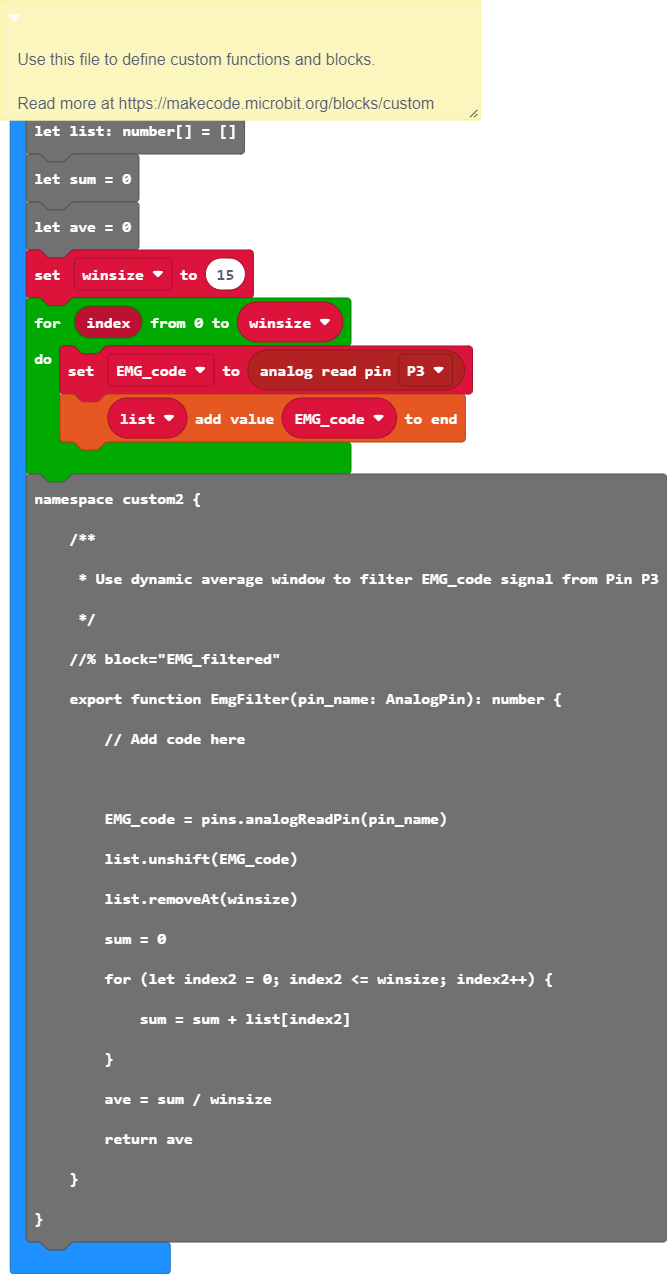
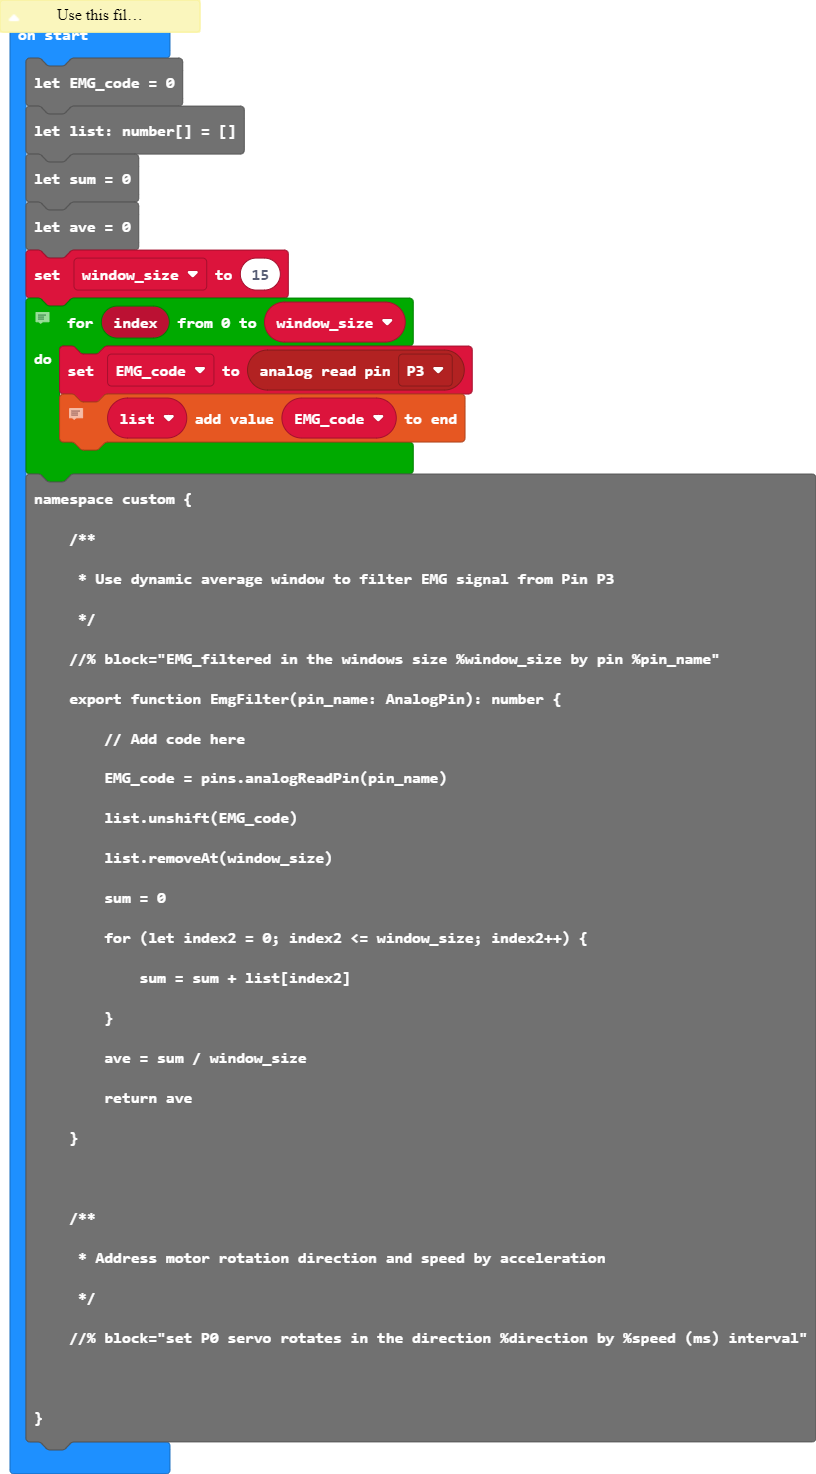
Update main.blocks, main.ts

diff --git a/main.ts b/main.ts
@@ -7,27 +7,28 @@ let EMG_code = 0
 let list: number[] = []
 let sum = 0
 let ave = 0
-let winsize = 15
-for (let index = 0; index <= winsize; index++) {
+let window_size = 15
+// Change the EMG name to EMG_code so student's variable will not have conflict
+for (let index = 0; index <= window_size; index++) {
     EMG_code = pins.analogReadPin(AnalogPin.P3)
+    // list.push(0)
     list.push(EMG_code)
 }
-namespace custom2 {
+namespace custom {
     /**
-     * Use dynamic average window to filter EMG_code signal from Pin P3
+     * Use dynamic average window to filter EMG signal from Pin P3
      */
-    //% block="EMG_filtered"
+    //% block="EMG_filtered in the windows size %window_size by pin %pin_name"
     export function EmgFilter(pin_name: AnalogPin): number {
         // Add code here
-
         EMG_code = pins.analogReadPin(pin_name)
         list.unshift(EMG_code)
-        list.removeAt(winsize)
+        list.removeAt(window_size)
         sum = 0
-        for (let index2 = 0; index2 <= winsize; index2++) {
+        for (let index2 = 0; index2 <= window_size; index2++) {
             sum = sum + list[index2]
         }
-        ave = sum / winsize
+        ave = sum / window_size
         return ave
     }
 }
